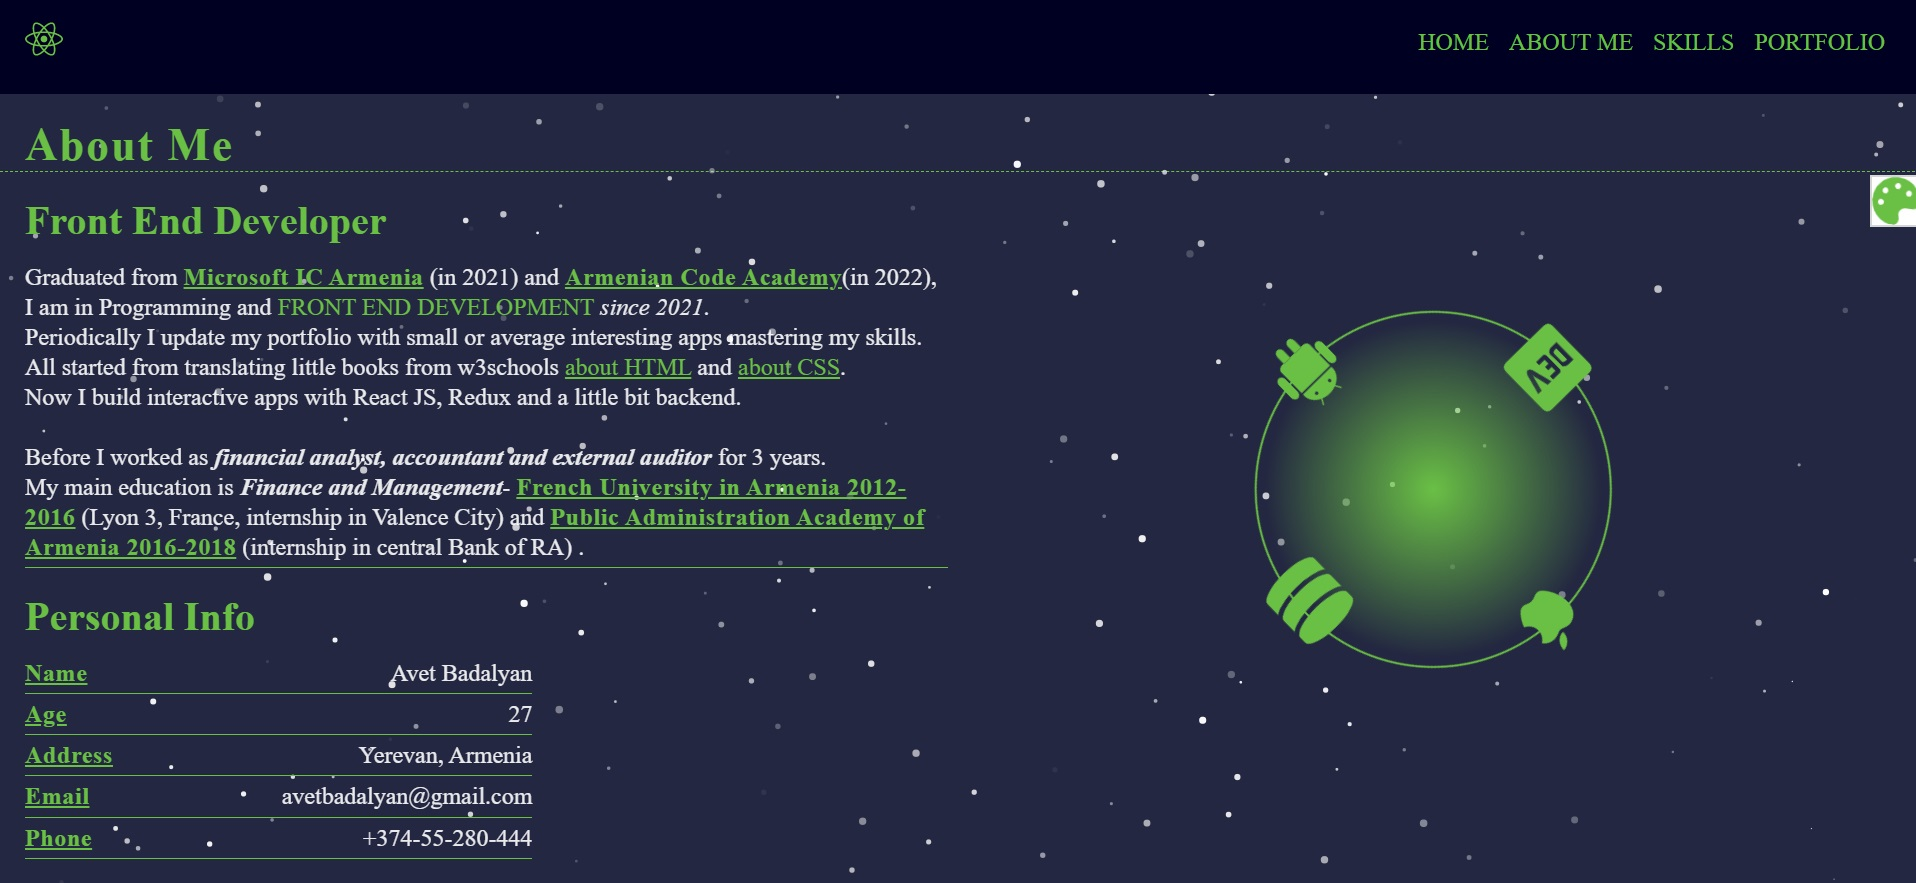
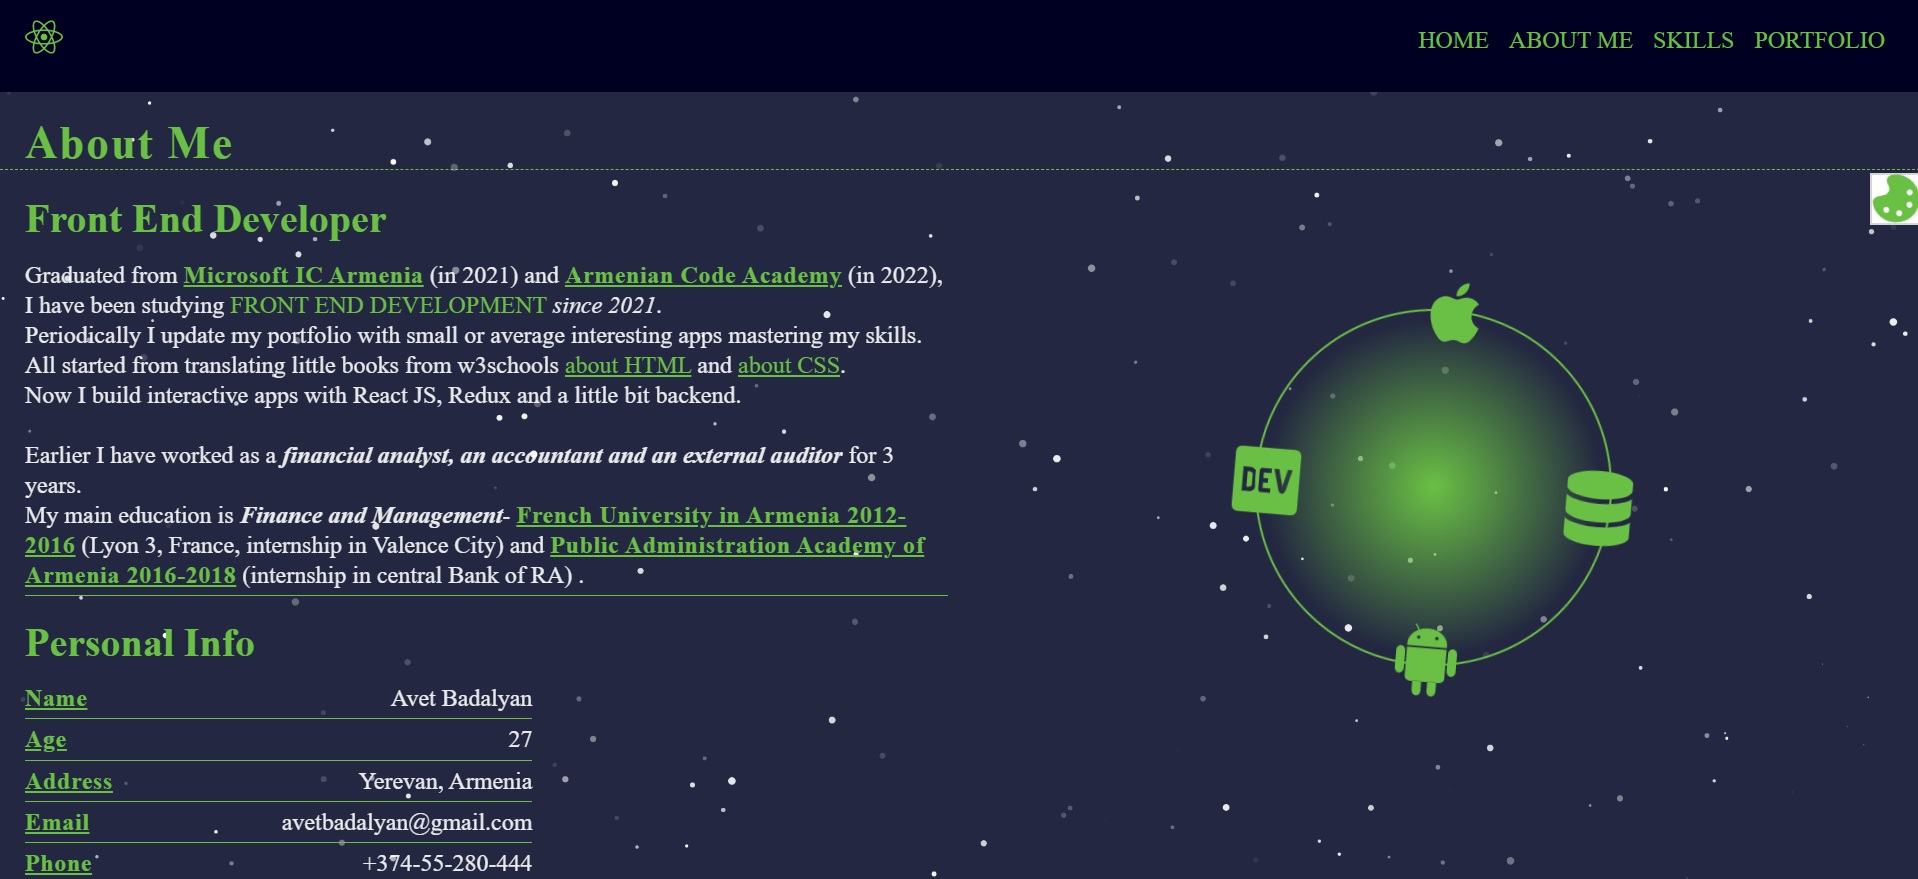
feat: little style updates

diff --git a/src/Pages/About/About.styles.scss b/src/Pages/About/About.styles.scss
@@ -1,5 +1,7 @@
 .about {
   height: 80%;
+  max-width: 100vw;
+  width: 100%;
 
   .about-content {
     display: flex;
@@ -12,12 +14,7 @@
       flex: 1;
       display: flex;
       flex-direction: column;
-      gap: 20px;
-
-      .personal-data-section {
-        width: 55%;
-        height: 100%;
-      }
+      gap: 8px;
 
       h3 {
         margin-bottom: 10px;
@@ -34,18 +31,30 @@
         border-bottom: 1px solid var(--selected-theme-main-color);
       }
 
-      .personal-data {
+      .about-text-section {
+        margin-bottom: 5px;
+      }
 
-        p {
-          display: flex;
-          justify-content: space-between;
-          font-family: "Open Sans", sans-serif;
+      .personal-data-section {
+        width: 55%;
+        height: 100%;
+        margin-top: 5px;
 
-          .underlined-bold-text {
-            letter-spacing: 0.5px;
-            text-decoration: underline;
-            font-weight: bold;
-            color: var(--selected-theme-main-color);
+        .personal-data-container {
+          .personal-data {
+
+            p {
+              display: flex;
+              justify-content: space-between;
+              font-family: "Open Sans", sans-serif;
+
+              .underlined-bold-text {
+                letter-spacing: 0.5px;
+                text-decoration: underline;
+                font-weight: bold;
+                color: var(--selected-theme-main-color);
+              }
+            }
           }
         }
       }

diff --git a/src/Pages/About/AboutMeText.jsx b/src/Pages/About/AboutMeText.jsx
@@ -19,10 +19,9 @@ export default function AboutMeText() {
         rel="noreferrer"
       >
         <span className="underlined-bold-text">Armenian Code Academy</span>
-      </a>
-      (in 2022), I am in Programming and
+      </a>{" "}
+      (in 2022), I have been studying{" "}
       <span style={{ color: "var(--selected-theme-main-color)" }}>
-        {" "}
         FRONT END DEVELOPMENT
       </span>{" "}
       <i>since 2021</i>. <br /> Periodically I update my portfolio with small or
@@ -49,9 +48,9 @@ export default function AboutMeText() {
       Now I build interactive apps with React JS, Redux and a little bit
       backend.
       <br />
-      <br /> Before I worked as{" "}
+      <br /> Earlier I have worked as a{" "}
       <b>
-        <i>financial analyst, accountant and external auditor</i>
+        <i>financial analyst, an accountant and an external auditor</i>
       </b>{" "}
       for 3 years. <br /> My main education is{" "}
       <b>

diff --git a/src/index.css b/src/index.css
@@ -11,7 +11,7 @@
   /* primary color yellow */
 
   --yellow-theme-background-color: rgb(35, 39, 65);
-  --yellow-theme-main-color: rgba(255, 193, 7, 0.95);
+  --yellow-theme-main-color: rgb(244, 180, 0);
   /* ffdd40 FFC107 */
   --yellow-theme-sub-text-color: rgba(255, 255, 255, 0.9);
   --yellow-theme-nav-background-color: rgb(0, 0, 34);
@@ -33,7 +33,7 @@
   /* primary color blue */
 
   --blue-theme-background-color: rgb(35, 39, 65);
-  --blue-theme-main-color: rgb(80, 120, 255);
+  --blue-theme-main-color: rgb(66, 133, 244);
   --blue-theme-sub-text-color: rgba(255, 255, 255, 0.9);
   --blue-theme-nav-background-color: rgb(0, 0, 34);
 }

diff --git a/src/Components/theme/Theme.jsx b/src/Components/theme/Theme.jsx
@@ -6,7 +6,7 @@ import "./Theme.scss";
 const colorsArray = [
   {
     id: "yellow",
-    bgColor: "rgb(255, 221, 64)",
+    bgColor: "rgb(244, 180, 0)",
   },
   {
     id: "red",
@@ -18,7 +18,7 @@ const colorsArray = [
   },
   {
     id: "blue",
-    bgColor: "rgb(80, 120, 255)",
+    bgColor: "rgb(66, 133, 244)",
   },
 ];
 
